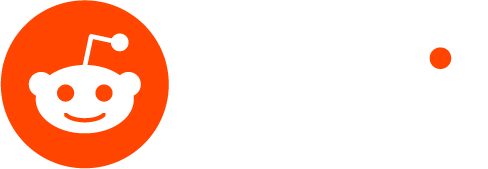
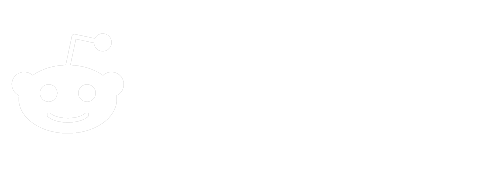
Updated site with team feedback

Changed region(s): [[0.0, 0.0, 0.3689, 1.0], [0.8607, 0.2663, 0.9529, 0.4142], [0.123, 0.6509, 0.2152, 0.7396]]

diff --git a/Company-Website/Content/Site.css b/Company-Website/Content/Site.css
@@ -1,5 +1,5 @@
 .topSplash {
-    background: url("images/background.jpg") no-repeat center center;
+    background: url("images/background.png") no-repeat center center;
     background-size: cover;
     min-height: 100%;
     text-align: center;
@@ -52,7 +52,7 @@
 }
 
 .socialLogoSmall {
-    height: 50px;
+    height: 30px;
     margin: 5px;
 }
 
